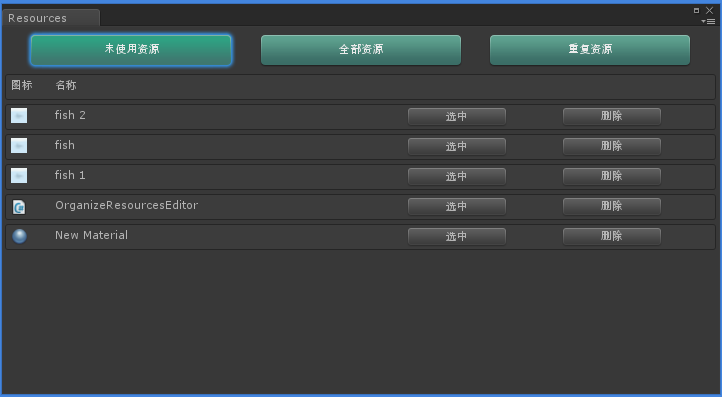
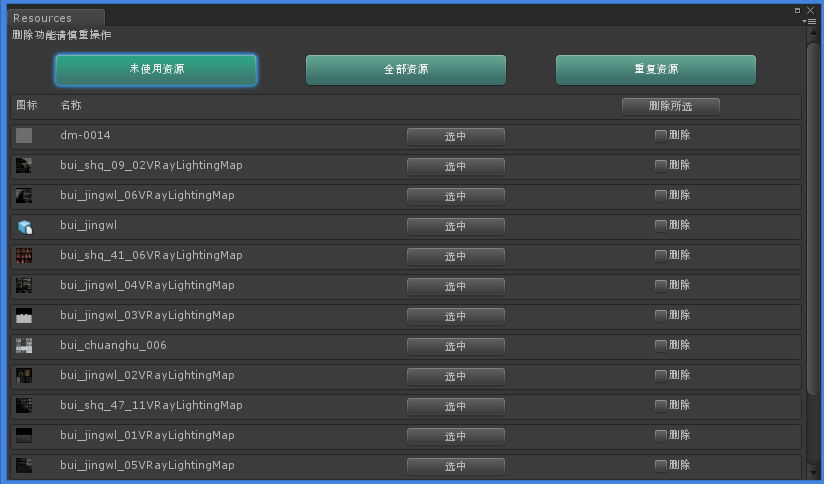
添加材质合并，替换模型中的材质，界面改为多选统一操作，避免不断地更改资源

diff --git a/Assets/Editor/OrganizeResourcesEditor.cs b/Assets/Editor/OrganizeResourcesEditor.cs
@@ -22,6 +22,9 @@ public class OrganizeResourcesEditor : EditorWindow {
     private List<string> _UnusedAssetsPaths = new List<string>();
     private List<List<string>> _RepeatAssetsPaths = new List<List<string>>();
 
+    private List<bool> _UnusedSelect = new List<bool>();
+    private List<List<bool>> _RepeatSelect = new List<List<bool>>();
+
     enum ControllerState
     {
         NONE,
@@ -30,18 +33,21 @@ public class OrganizeResourcesEditor : EditorWindow {
         REPEAT,
     }
     ControllerState CtrlState = ControllerState.NONE;
-    
+
+   
+
     //
     #region GUI
     void OnGUI()
     {
         scrollVec2 = GUILayout.BeginScrollView(scrollVec2);
+        GUILayout.Label("删除功能请慎重操作");
         #region 三个按钮
 
         GUIStyle _AllBtnStyle = GUI.skin.GetStyle("flow node 2");
         GUIStyle _UnusedBtnStyle = GUI.skin.GetStyle("flow node 2");
         GUIStyle _RepeatBtnStyle = GUI.skin.GetStyle("flow node 2");
-
+        
         switch (CtrlState)
         {
             case ControllerState.ALL:
@@ -122,8 +128,20 @@ public class OrganizeResourcesEditor : EditorWindow {
         for (int i = 0; i < _tempList.Length; i++)
         {
             if (_tempList[i].Contains("Assets"))
+            {
                 if (!AssetDatabase.IsValidFolder(_tempList[i]))
-                    _AllAssetsPaths.Add(_tempList[i]);
+                {
+                    //屏蔽一些特殊文件夹
+                    bool _isUnused = _tempList[i].Contains("Editor") || _tempList[i].Contains("Editor Default Resources")
+                        || _tempList[i].Contains("Gizmos") || _tempList[i].Contains("Plugins")
+                        || _tempList[i].Contains("Resources") || _tempList[i].Contains("StreamingAssets");
+                    if (!_isUnused)
+                    {
+                        _AllAssetsPaths.Add(_tempList[i]);
+                    }
+                }
+                    
+            }
         }
         #endregion
     }
@@ -133,18 +151,13 @@ public class OrganizeResourcesEditor : EditorWindow {
         OnAllClick();
 
         _UnusedAssetsPaths = new List<string>();
+        _UnusedSelect = new List<bool>();
         for (int i = 0; i < _AllAssetsPaths.Count; i++)
         {
             if (GetUseAssetPaths(_AllAssetsPaths[i]).Length <= 0)
             {
-                //屏蔽一些特殊文件夹
-                bool _isUnused = _AllAssetsPaths[i].Contains("Editor")|| _AllAssetsPaths[i].Contains("Editor Default Resources") 
-                    || _AllAssetsPaths[i].Contains("Gizmos") ||  _AllAssetsPaths[i].Contains("Plugins") 
-                    || _AllAssetsPaths[i].Contains("Resources") || _AllAssetsPaths[i].Contains("StreamingAssets");
-                if (!_isUnused)
-                {
-                    _UnusedAssetsPaths.Add(_AllAssetsPaths[i]);
-                }
+                _UnusedAssetsPaths.Add(_AllAssetsPaths[i]);
+                _UnusedSelect.Add(false);
             }
             EditorUtility.DisplayProgressBar("整理未使用资源中", _AllAssetsPaths[i], (float)i / (float)_AllAssetsPaths.Count);
         }
@@ -157,6 +170,7 @@ public class OrganizeResourcesEditor : EditorWindow {
         OnAllClick();
         
          _RepeatAssetsPaths = new List<List<string>>();
+        _RepeatSelect = new List<List<bool>>();
         List<string> _TempListRepeat = new List<string>();
         for (int i = 0; i < _AllAssetsPaths.Count; i++)
         {
@@ -170,7 +184,9 @@ public class OrganizeResourcesEditor : EditorWindow {
         {
             EditorUtility.DisplayProgressBar("整理重复资源中", _TempListRepeat[i], (float)i+1.0f / (float)_TempListRepeat.Count);
             List<string> _TempMake = new List<string>();
+            List<bool> _TempSelect = new List<bool>();
             _TempMake.Add(_TempListRepeat[i]);
+            _TempSelect.Add(false);
             for (int j = 0; j < _TempListRepeat.Count; j++)
             {
                 if (i == j)
@@ -178,11 +194,13 @@ public class OrganizeResourcesEditor : EditorWindow {
                 if (GetFileMD5(_TempListRepeat[i]) == GetFileMD5(_TempListRepeat[j]))
                 {
                     _TempMake.Add(_TempListRepeat[j]);
+                    _TempSelect.Add(false);
                     _TempListRepeat.RemoveAt(j);
                     j--;
                 }
             }
             _RepeatAssetsPaths.Add(_TempMake);
+            _RepeatSelect.Add(_TempSelect);
             _TempListRepeat.RemoveAt(i);
             i--;
         }
@@ -193,18 +211,36 @@ public class OrganizeResourcesEditor : EditorWindow {
     #region 所有资源GUI
     void OnAllGUI()
     {
+        if (_AllAssetsPaths.Count > 0)
+        {
+            EditorGUILayout.BeginHorizontal("HelpBox");
+            GUILayout.Label("图标", new GUILayoutOption[] { GUILayout.Width(40), GUILayout.Height(20) });
+            GUILayout.Label("名称", GUILayout.Width(300));
+            GUILayout.FlexibleSpace();
+            GUILayout.Label("", GUILayout.Width(100));
+            GUILayout.FlexibleSpace();
+            GUILayout.Label("", GUILayout.Width(100));
+            GUILayout.FlexibleSpace();
+            EditorGUILayout.EndHorizontal();
+        }
+
         for (int i = 0; i < _AllAssetsPaths.Count; i++)
         {
             EditorGUILayout.BeginHorizontal("HelpBox");//
             GUILayout.Label(AssetDatabase.GetCachedIcon(_AllAssetsPaths[i]), new GUILayoutOption[] { GUILayout.Width(30), GUILayout.Height(20) });
             GUILayout.Label(AssetDatabase.LoadMainAssetAtPath(_AllAssetsPaths[i]).name, GUILayout.Width(300));
             GUILayout.FlexibleSpace();
-            if (GUILayout.Button("GUID", GUILayout.Width(100)))
+            if (GUILayout.Button("InstanceID", GUILayout.Width(80)))
+            {
+                Debug.Log(AssetDatabase.LoadAssetAtPath<Object>(_AllAssetsPaths[i]).GetInstanceID());
+            }
+            GUILayout.FlexibleSpace();
+            if (GUILayout.Button("GUID", GUILayout.Width(80)))
             {
                 Debug.Log(AssetDatabase.AssetPathToGUID(_AllAssetsPaths[i]));
             }
             GUILayout.FlexibleSpace();
-            if (GUILayout.Button("引用", GUILayout.Width(100)))
+            if (GUILayout.Button("引用", GUILayout.Width(80)))
             {
                 string[] _TempArray = AssetDatabase.GetDependencies(_AllAssetsPaths[i]);
                 string _Temp = "";
@@ -215,7 +251,7 @@ public class OrganizeResourcesEditor : EditorWindow {
                 Debug.Log(_Temp);
             }
             GUILayout.FlexibleSpace();
-            if (GUILayout.Button("被引用", GUILayout.Width(100)))
+            if (GUILayout.Button("被引用", GUILayout.Width(80)))
             {
                 string[] _TempArray = GetUseAssetPaths(_AllAssetsPaths[i]);
                 string _Temp = "";
@@ -234,15 +270,22 @@ public class OrganizeResourcesEditor : EditorWindow {
     #region 未使用资源GUI
     void OnUnsedGUI()
     {
-        EditorGUILayout.BeginHorizontal("HelpBox");
-        GUILayout.Label("图标", new GUILayoutOption[] { GUILayout.Width(40), GUILayout.Height(20) });
-        GUILayout.Label("名称", GUILayout.Width(300));
-        GUILayout.FlexibleSpace();
-        GUILayout.Label("", GUILayout.Width(100));
-        GUILayout.FlexibleSpace();
-        GUILayout.Label("", GUILayout.Width(100));
-        GUILayout.FlexibleSpace();
-        EditorGUILayout.EndHorizontal();
+        if (_UnusedAssetsPaths.Count > 0)
+        {
+            EditorGUILayout.BeginHorizontal("HelpBox");
+            GUILayout.Label("图标", new GUILayoutOption[] { GUILayout.Width(40), GUILayout.Height(20) });
+            GUILayout.Label("名称", GUILayout.Width(300));
+            GUILayout.FlexibleSpace();
+            GUILayout.Label("", GUILayout.Width(100));
+            GUILayout.FlexibleSpace();
+            if (GUILayout.Button("删除所选", GUILayout.Width(100)))
+            {
+                OnUnusedDelete();
+            }
+            GUILayout.FlexibleSpace();
+            EditorGUILayout.EndHorizontal();
+
+        }
 
         for (int i = 0; i < _UnusedAssetsPaths.Count; i++)
         {
@@ -255,10 +298,13 @@ public class OrganizeResourcesEditor : EditorWindow {
                 OnUnusedSelect(_UnusedAssetsPaths[i]);
             }
             GUILayout.FlexibleSpace();
-            if (GUILayout.Button("删除", GUILayout.Width(100)))
-            {
-                OnUnusedDelete(_UnusedAssetsPaths[i]);
-            }
+            GUILayout.Space(100);
+            //因为删除一次就会更新一次资源  所以提供选项 一次性删除
+            _UnusedSelect[i]= GUILayout.Toggle(_UnusedSelect[i], "删除", GUILayout.Width(100));
+            //if (GUILayout.Button("删除", GUILayout.Width(100)))
+            //{
+            //    OnUnusedDelete(_UnusedAssetsPaths[i]);
+            //}
             GUILayout.FlexibleSpace();
             EditorGUILayout.EndHorizontal();
         }
@@ -267,22 +313,50 @@ public class OrganizeResourcesEditor : EditorWindow {
     {
         Selection.activeObject = AssetDatabase.LoadAssetAtPath<Object>(_PathValue);
     }
-    void OnUnusedDelete(string _PathValue)
+    void OnUnusedDelete()
     {
-        if (AssetDatabase.DeleteAsset(_PathValue))
+        bool _isDelete = false;
+        if (_UnusedAssetsPaths.Count == _UnusedSelect.Count)
+        {
+            for (int i = 0; i < _UnusedSelect.Count; i++)
+            {
+                if (_UnusedSelect[i])
+                {
+                    AssetDatabase.DeleteAsset(_UnusedAssetsPaths[i]);
+                    _isDelete = true;
+                }
+            }
+        }
+        if (_isDelete)
+        {
             AssetDatabase.Refresh();
-        OnUnusedClick();
+            OnUnusedClick();
+        }
     }
     #endregion
 
     #region 重复资源GUI
     void OnRepeatGUI()
     {
+        if (_RepeatAssetsPaths.Count > 0)
+        {
+            EditorGUILayout.BeginHorizontal("HelpBox");
+            GUILayout.Label("图标", new GUILayoutOption[] { GUILayout.Width(40), GUILayout.Height(20) });
+            GUILayout.Label("名称", GUILayout.Width(300));
+            GUILayout.FlexibleSpace();
+            GUILayout.Label("", GUILayout.Width(100));
+            GUILayout.FlexibleSpace();
+            if (GUILayout.Button("合并所选", GUILayout.Width(100)))
+            {
+                OnQueryRepeatMerge();
+            }
+            GUILayout.FlexibleSpace();
+            EditorGUILayout.EndHorizontal();
+        }
+
         for (int i = 0; i < _RepeatAssetsPaths.Count; i++)
         {
-            //   GUILayout.Label("", GUILayout.Height(10));
             EditorGUILayout.BeginVertical("HelpBox");
-            //  List<string> _TempList = _RepeatAssetsPaths[i];
             for (int j = 0; j < _RepeatAssetsPaths[i].Count; j++)
             {
                 EditorGUILayout.BeginHorizontal("HelpBox");
@@ -294,21 +368,54 @@ public class OrganizeResourcesEditor : EditorWindow {
                     OnUnusedSelect(_RepeatAssetsPaths[i][j]);
                 }
                 GUILayout.FlexibleSpace();
-                if (GUILayout.Button("合并", GUILayout.Width(100)))
+                GUILayout.Space(100);
+                _RepeatSelect[i][j] = GUILayout.Toggle(_RepeatSelect[i][j], "合并", GUILayout.Width(100));
+                for (int m = 0; m < _RepeatSelect[i].Count; m++)
                 {
-                    OnRepeatMerge(_RepeatAssetsPaths[i][j], _RepeatAssetsPaths[i]);
-                    break;
+                    if (m != j&& _RepeatSelect[i][j])
+                    {
+                        _RepeatSelect[i][m] = false;
+                    }
                 }
+                //if (GUILayout.Button("合并", GUILayout.Width(100)))
+                //{
+                //    OnRepeatMerge(_RepeatAssetsPaths[i][j], _RepeatAssetsPaths[i]);
+                //    break;
+                //}
                 GUILayout.FlexibleSpace();
                 EditorGUILayout.EndHorizontal();
             }
             EditorGUILayout.EndVertical();
         }
-       
     }
-   
+
     #region 合并
-    void OnRepeatMerge(string _PathValue,List<string> _ListValue)
+    void OnQueryRepeatMerge()
+    {
+        bool _isMerge = false;
+        if (_RepeatSelect.Count != _RepeatAssetsPaths.Count)
+            return;
+        for (int i = 0; i < _RepeatAssetsPaths.Count; i++)
+        {
+            if (_RepeatSelect[i].Count != _RepeatAssetsPaths[i].Count)
+                break;
+            for (int j = 0; j < _RepeatAssetsPaths[i].Count; j++)
+            {
+                if (_RepeatSelect[i][j])
+                {
+                    OnRepeatMerge(_RepeatAssetsPaths[i][j], _RepeatAssetsPaths[i]);
+                    _isMerge = true;
+                }
+            }
+        }
+        if (_isMerge)
+        {
+            AssetDatabase.Refresh();
+            OnRepeatClick();
+        }
+    }
+
+    void OnRepeatMerge(string _PathValue, List<string> _ListValue)
     {
         string _FixedGUID= AssetDatabase.AssetPathToGUID(_PathValue);
         string _AssetsPath = Application.dataPath.Replace("Assets", "");
@@ -326,11 +433,33 @@ public class OrganizeResourcesEditor : EditorWindow {
                 Object _OtherUseAsset = AssetDatabase.LoadAssetAtPath<Object>(_OtherPaths[j]);
                 if (AssetDatabase.IsNativeAsset(_OtherUseAsset))
                 {
-                    string _RealAllText = File.ReadAllText(_AssetsPath+ _OtherPaths[j]).Replace(_OldGUI,_FixedGUID);
+                    string _RealAllText = File.ReadAllText(_AssetsPath + _OtherPaths[j]).Replace(_OldGUI, _FixedGUID);
                     File.WriteAllText(_AssetsPath + _OtherPaths[j], _RealAllText);
                 }
                 else
-                    _isOtherNative = false;
+                {
+                    //外部引用  --   外部资源引用到材质好像就模型了吧   一时也想不到其他东西
+                    if (_PathValue.EndsWith(".mat"))
+                    {
+                        Object _ChangeObejct = AssetDatabase.LoadAssetAtPath<Object>(_ListValue[i]);
+                        GameObject _MeshObject = AssetDatabase.LoadAssetAtPath<GameObject>(_OtherPaths[j]);
+                        MeshRenderer[] _KidsMR = _MeshObject.GetComponentsInChildren<MeshRenderer>();
+                        for (int m = 0; m < _KidsMR.Length; m++)
+                        {
+                            Material[] _TempShared = _KidsMR[m].sharedMaterials;
+                            for (int n = 0; n < _TempShared.Length; n++)
+                            {
+                                if (_ChangeObejct.GetInstanceID() == _TempShared[n].GetInstanceID())
+                                {
+                                    _TempShared[n] = AssetDatabase.LoadAssetAtPath<Material>(_PathValue);
+                                }
+                                _KidsMR[m].materials = _TempShared;
+                            }
+                        }
+                    }
+                    else
+                        _isOtherNative = false;
+                }
             }
             //如果没有外部资源引用他 就删除
             if (_isOtherNative)
@@ -340,9 +469,8 @@ public class OrganizeResourcesEditor : EditorWindow {
                 i--;
             }
         }
-        AssetDatabase.Refresh();
-        OnRepeatClick();
     }
+    
     #endregion
     #endregion
 
@@ -472,7 +600,7 @@ public class OrganizeResourcesEditor : EditorWindow {
 
         Object _ActiveObject = Selection.activeObject;
         string _ObjectPath = AssetDatabase.GetAssetPath(_ActiveObject);
-        string _Path = Application.dataPath.Replace("Assets", "");
+       // string _Path = Application.dataPath.Replace("Assets", "");
         //string _Context = File.ReadAllText(_Path + _ObjectPath);
 
       Debug.Log(AssetDatabase.GetTextMetaFilePathFromAssetPath(_ObjectPath));
